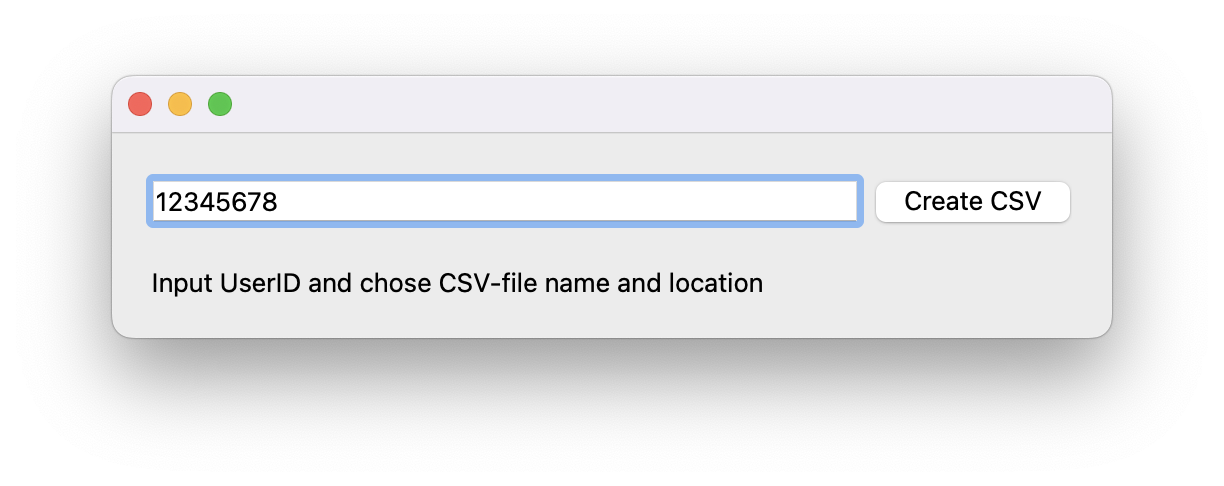
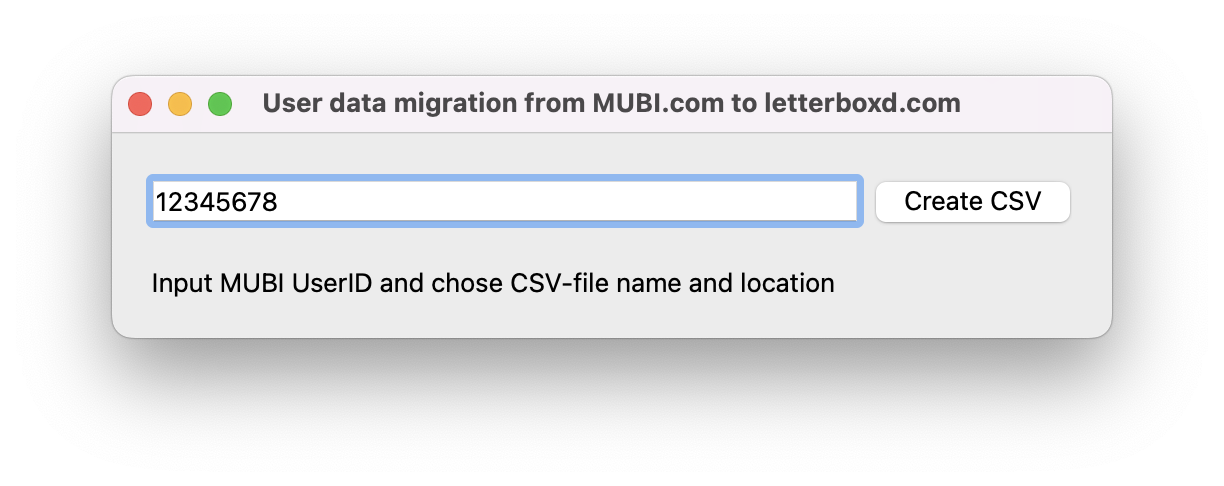
Improve GUI

Changed region(s): [[0.2173, 0.1852, 0.8072, 0.2469], [0.1863, 0.5556, 0.683, 0.6173]]

diff --git a/mubi2letterboxd.py b/mubi2letterboxd.py
@@ -15,8 +15,11 @@ class Widget(QWidget):
     def __init__(self):
         super().__init__()
 
+        title = "User data migration from MUBI.com to letterboxd.com"
+        self.setWindowTitle(title)
+
         self.user_id = QLineEdit()
-        self.user_id.setPlaceholderText("UserID")
+        self.user_id.setPlaceholderText("MUBI UserID")
         self.user_id.textChanged[str].connect(self.on_changed)
 
         self.go_button = QPushButton("Create CSV")
@@ -28,7 +31,7 @@ class Widget(QWidget):
         self.controls_layout.addWidget(self.go_button)
 
         self.label = QLabel()
-        self.set_label_text("Input UserID and chose CSV-file name and location")
+        self.set_label_text("Input MUBI UserID and chose CSV-file name and location")
 
         self.layout = QVBoxLayout(self)
         self.layout.addLayout(self.controls_layout)

diff --git a/README.md b/README.md
@@ -1,7 +1,7 @@
 # mubi2letterboxd
 
 ## What?
-_mubi2letterboxd_ is a simple command line utility for user data migration from [MUBI](https://mubi.com) to [letterboxd](https://letterboxd.com). With the utility, you can create a [.csv file](https://letterboxd.com/about/importing-data/) suitable for manual [import](https://letterboxd.com/import/) to Letterboxd.
+_mubi2letterboxd_ is a simple GUI application for user data migration from [MUBI](https://mubi.com) to [letterboxd](https://letterboxd.com). With the utility, you can create a [.csv file](https://letterboxd.com/about/importing-data/) suitable for manual [import](https://letterboxd.com/import/) to Letterboxd.
 
 ## Why?
 If you have an account on MUBI, the mubi2letterboxd utility can help you easily import your data to [letterboxd](https://letterboxd.com). 
